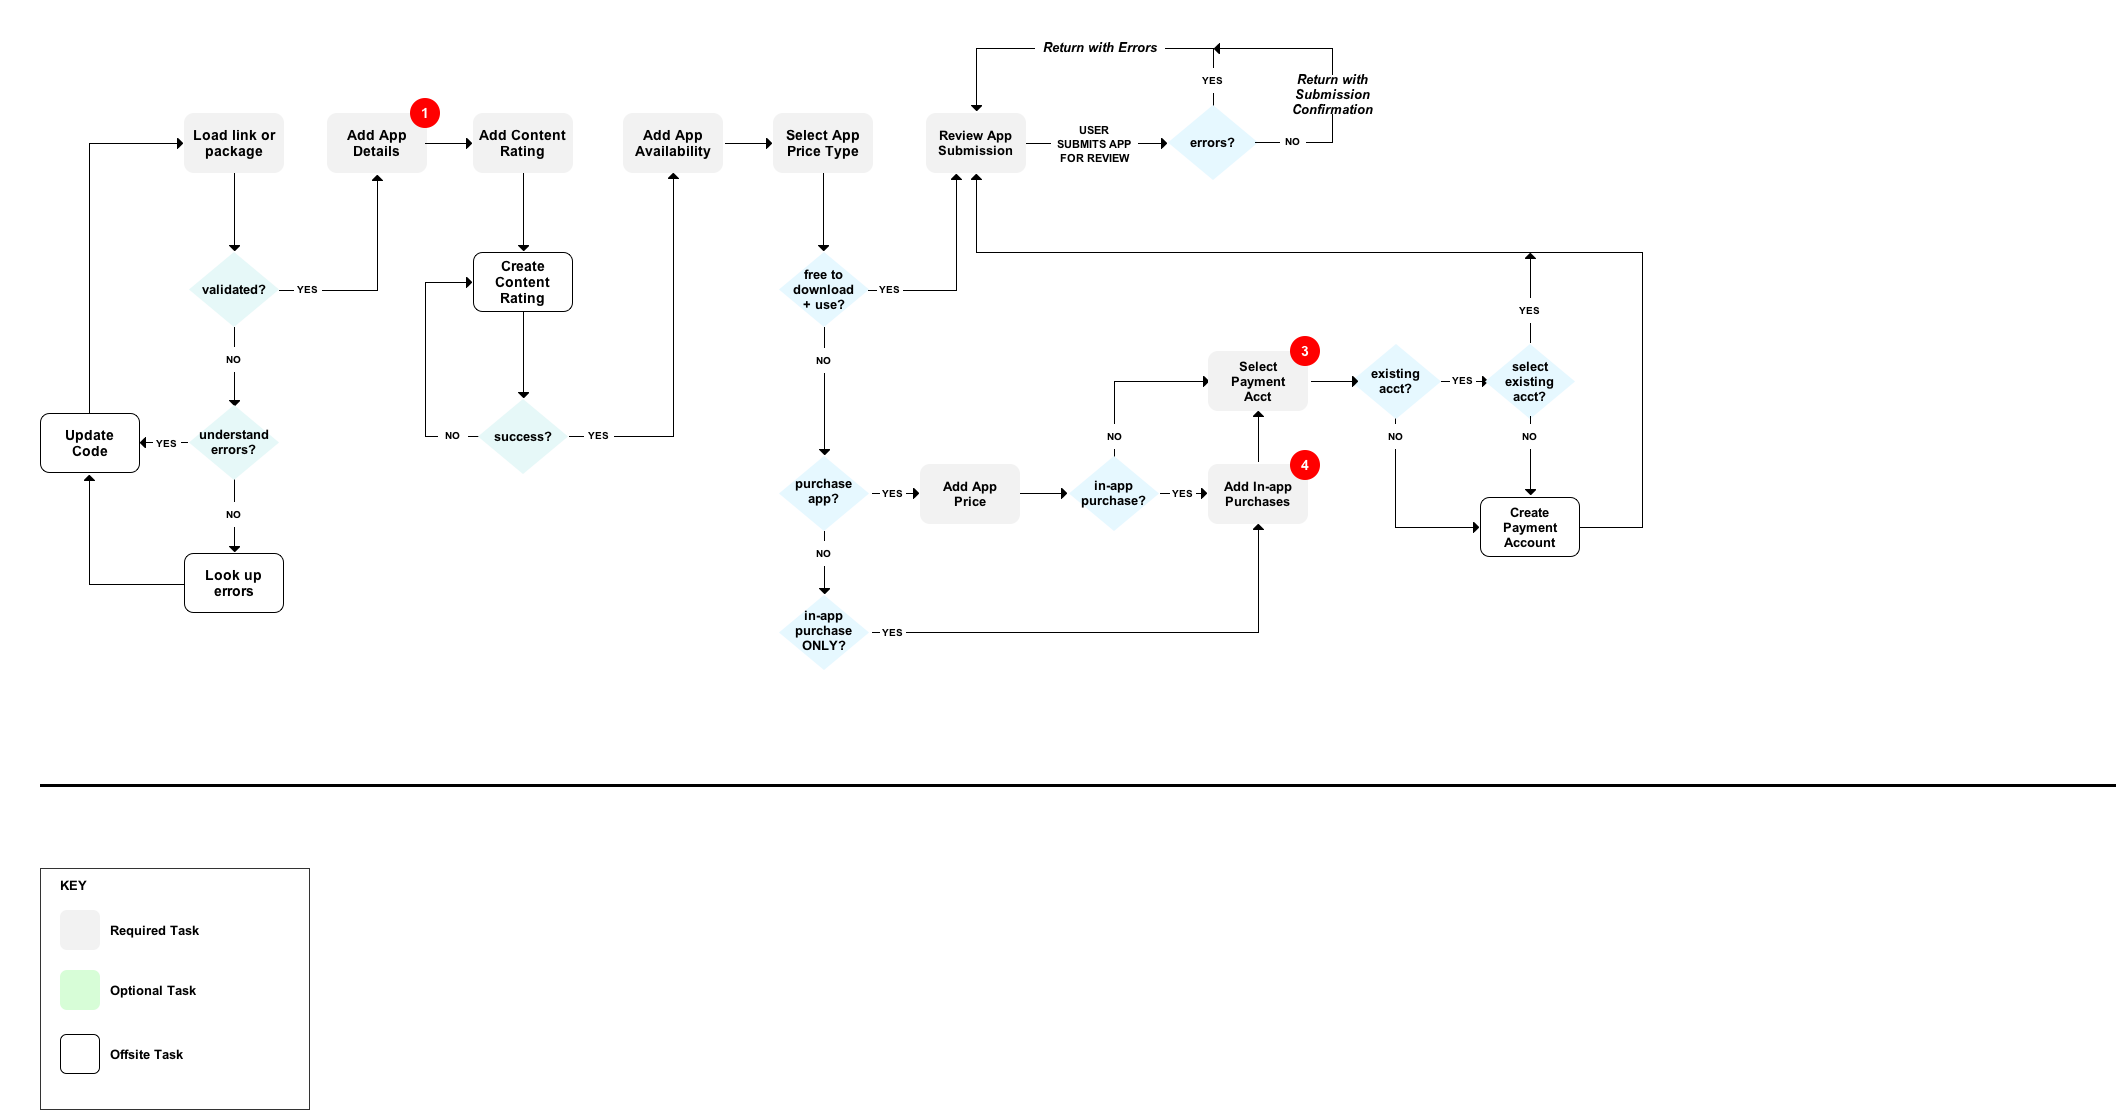
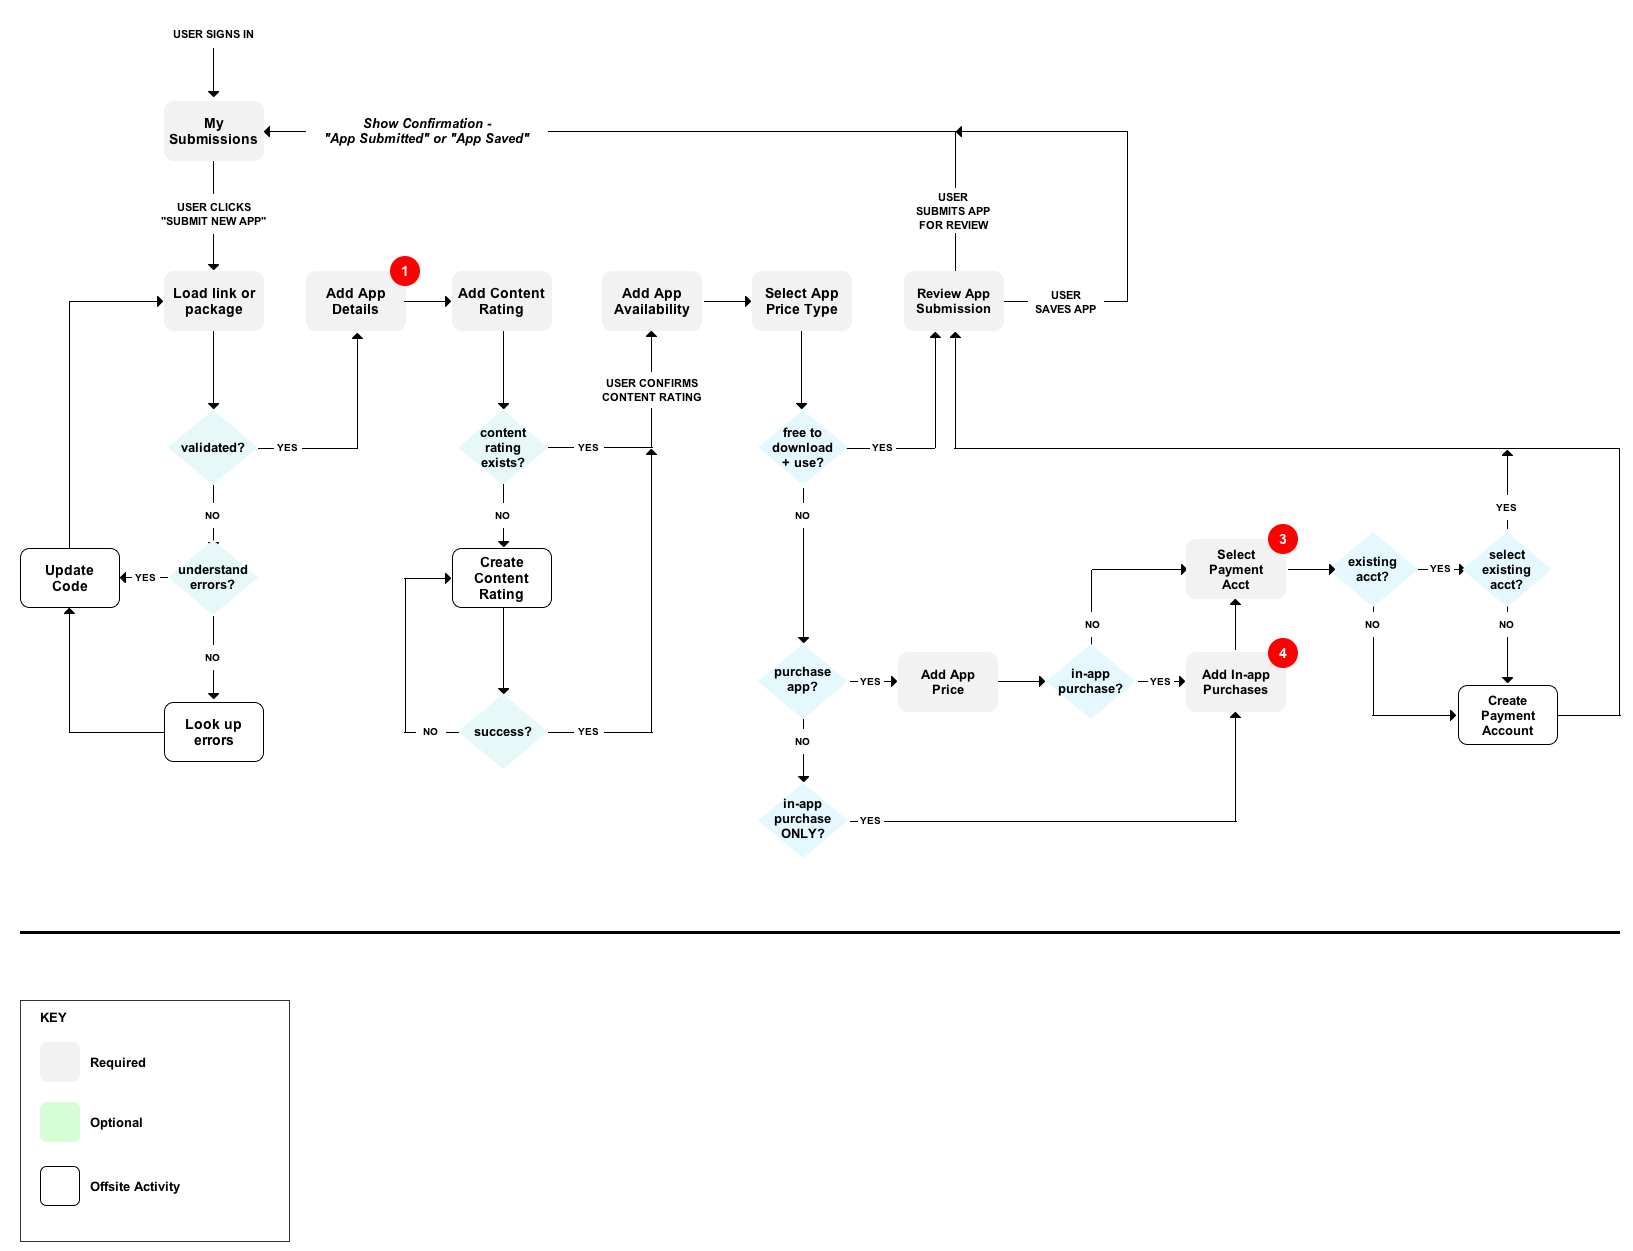
Update user flow + add some pages

diff --git a/index_4.html b/index_4.html
@@ -19,34 +19,42 @@
 
 			<div class="row">
 				<div class="col-sm-12 col-md-12 col-lg-12">
-
+					
 					<h1>Dev Pages Design - Project Overview</h1>
 
 					<ul class="pagination pull-right override-pagination-padding">
-						<li class="disabled"><a href="#">&laquo;</a></li>
-						<li class="active"><a href="index.html">1</a></li>
+						<li><a href="index_3.html">&laquo;</a></li>
+						<li><a href="index.html">1</a></li>
 						<li><a href="index_2.html">2</a></li>
 						<li><a href="index_3.html">3</a></li>
-						<li><a href="index_4.html">4</a></li>
-						<li><a href="index_2.html">&raquo;</a></li>
+						<li class="active"><a href="index_4.html">4</a></li>
+						<li class="disabled"><a href="index_4.html">&raquo;</a></li>
 					</ul>
 					
 					<div class="clearfix"></div>
 
 					<div class="thumbnail override-thumbnail">
 						
-						<h3>Project Goals</h3>
+						<h3>Submit a New App User Flow</h3>
+
+						<p>
+							The Submit a New App User Flow ends after the user submits the app for review or after the user saves the app. At that point, the user is returned to the My Submissions page showing that the new app has been added and with the appropriate confirmation message ("saved" or "submitted").
+						</p>
+
+						<hr>
+
+						<a href="img/countrypricepayment/app_submission_flow.png" target="_blank" title="Click for larger size"><img src="img/countrypricepayment/app_submission_flow.png" alt="App Submission Flow"/></a>
 
 						<hr>
 						
+						<h4>NOTES</h4>
 						<ol>
-							<li><span>Add some goals here</span></li>
-							<li><span>Add some goals here</span></li>
-							<li><span>Add some goals here</span></li>
-							<li><span>Add some goals here</span></li>
-							<li><span>Add some goals here</span></li>
-							<li><span>Add some goals here</span></li>
-							<li><span>Add some goals here</span></li>
+							<li><span>Sub-steps for Add App Details below.</span><br/>
+								<a href="img/countrypricepayment/app_details_substeps.png" target="_blank" title="Click for larger size"><img class="override-img-padding override-thumb-img-left" width="900" src="img/countrypricepayment/app_details_substeps.png" alt="Substeps for Add App Details"></a>
+							</li>
+							<li><span>Should developers upload all image sizes at this step? If not, figure out how to get them to add all sizes BEFORE SUBMITTING the app for review.</span></li>
+							<li><span>Select Payment Account is Required if developer chooses "users must purchase app" or "free to download but users can make in-app purchases.</span></li>
+							<li><span>Add In-app Purchases is Required if developer chooses "free to download but users can make in-app purchases."</span></li>
 						<ol>
 					</div>
 				</div>
@@ -59,7 +67,7 @@
 				<ul class="pagination col-sm-6 col-md-4 col-lg-4">
 					<li class="disabled"><a href="#">&laquo;</a></li>
 					<li class="active"><a href="#">1</a></li>
-					<li><a href="index_2.html">2</a></li>
+					<li><a href="#">2</a></li>
 					<li><a href="#">3</a></li>
 					<li><a href="#">&raquo;</a></li>
 				</ul>

diff --git a/index_3.html b/index_3.html
@@ -19,34 +19,36 @@
 
 			<div class="row">
 				<div class="col-sm-12 col-md-12 col-lg-12">
-
+					
 					<h1>Dev Pages Design - Project Overview</h1>
 
 					<ul class="pagination pull-right override-pagination-padding">
-						<li class="disabled"><a href="#">&laquo;</a></li>
-						<li class="active"><a href="index.html">1</a></li>
+						<li><a href="index_2.html">&laquo;</a></li>
+						<li><a href="index.html">1</a></li>
 						<li><a href="index_2.html">2</a></li>
-						<li><a href="index_3.html">3</a></li>
+						<li class="active"><a href="index_3.html">3</a></li>
 						<li><a href="index_4.html">4</a></li>
-						<li><a href="index_2.html">&raquo;</a></li>
+						<li><a href="index_4.html">&raquo;</a></li>
 					</ul>
 					
 					<div class="clearfix"></div>
 
 					<div class="thumbnail override-thumbnail">
 						
-						<h3>Project Goals</h3>
+						<h3>Success Metrics</h3>
 
 						<hr>
 						
+						<h4>NOTES</h4>
+						
 						<ol>
-							<li><span>Add some goals here</span></li>
-							<li><span>Add some goals here</span></li>
-							<li><span>Add some goals here</span></li>
-							<li><span>Add some goals here</span></li>
-							<li><span>Add some goals here</span></li>
-							<li><span>Add some goals here</span></li>
-							<li><span>Add some goals here</span></li>
+							<li><span>Add some metrics here</span></li>
+							<li><span>Add some metrics here</span></li>
+							<li><span>Add some metrics here</span></li>
+							<li><span>Add some metrics here</span></li>
+							<li><span>Add some metrics here</span></li>
+							<li><span>Add some metrics here</span></li>
+							<li><span>Add some metrics here</span></li>
 						<ol>
 					</div>
 				</div>
@@ -59,7 +61,7 @@
 				<ul class="pagination col-sm-6 col-md-4 col-lg-4">
 					<li class="disabled"><a href="#">&laquo;</a></li>
 					<li class="active"><a href="#">1</a></li>
-					<li><a href="index_2.html">2</a></li>
+					<li><a href="#">2</a></li>
 					<li><a href="#">3</a></li>
 					<li><a href="#">&raquo;</a></li>
 				</ul>

diff --git a/index_2.html b/index_2.html
@@ -19,34 +19,34 @@
 
 			<div class="row">
 				<div class="col-sm-12 col-md-12 col-lg-12">
-
+					
 					<h1>Dev Pages Design - Project Overview</h1>
 
 					<ul class="pagination pull-right override-pagination-padding">
-						<li class="disabled"><a href="#">&laquo;</a></li>
-						<li class="active"><a href="index.html">1</a></li>
-						<li><a href="index_2.html">2</a></li>
+						<li><a href="index.html">&laquo;</a></li>
+						<li><a href="index.html">1</a></li>
+						<li class="active"><a href="index_2.html">2</a></li>
 						<li><a href="index_3.html">3</a></li>
 						<li><a href="index_4.html">4</a></li>
-						<li><a href="index_2.html">&raquo;</a></li>
+						<li><a href="index_3.html">&raquo;</a></li>
 					</ul>
 					
 					<div class="clearfix"></div>
 
 					<div class="thumbnail override-thumbnail">
-						
-						<h3>Project Goals</h3>
+
+						<h3>Design Principles</h3>
 
 						<hr>
 						
 						<ol>
-							<li><span>Add some goals here</span></li>
-							<li><span>Add some goals here</span></li>
-							<li><span>Add some goals here</span></li>
-							<li><span>Add some goals here</span></li>
-							<li><span>Add some goals here</span></li>
-							<li><span>Add some goals here</span></li>
-							<li><span>Add some goals here</span></li>
+							<li><span>Add some principles here</span></li>
+							<li><span>Add some principles here</span></li>
+							<li><span>Add some principles here</span></li>
+							<li><span>Add some principles here</span></li>
+							<li><span>Add some principles here</span></li>
+							<li><span>Add some principles here</span></li>
+							<li><span>Add some principles here</span></li>
 						<ol>
 					</div>
 				</div>

diff --git a/stylesheets/templateStyles.css b/stylesheets/templateStyles.css
@@ -103,12 +103,16 @@ ol li span{
 	color: black;
 	font-weight: normal;
 }
-.img-padding {
+.override-img-padding {
 	padding: 9px;
 }
-img.override-thumb-img-left {
+.override-thumb-img-left {
 	margin-left: 0 !important;
 	margin-right: 0 !important;
 }
-
-
+.override-pagination-padding {
+	margin-top: 0px;
+}
+.override-thumbnail {
+	padding: 16px;
+}
